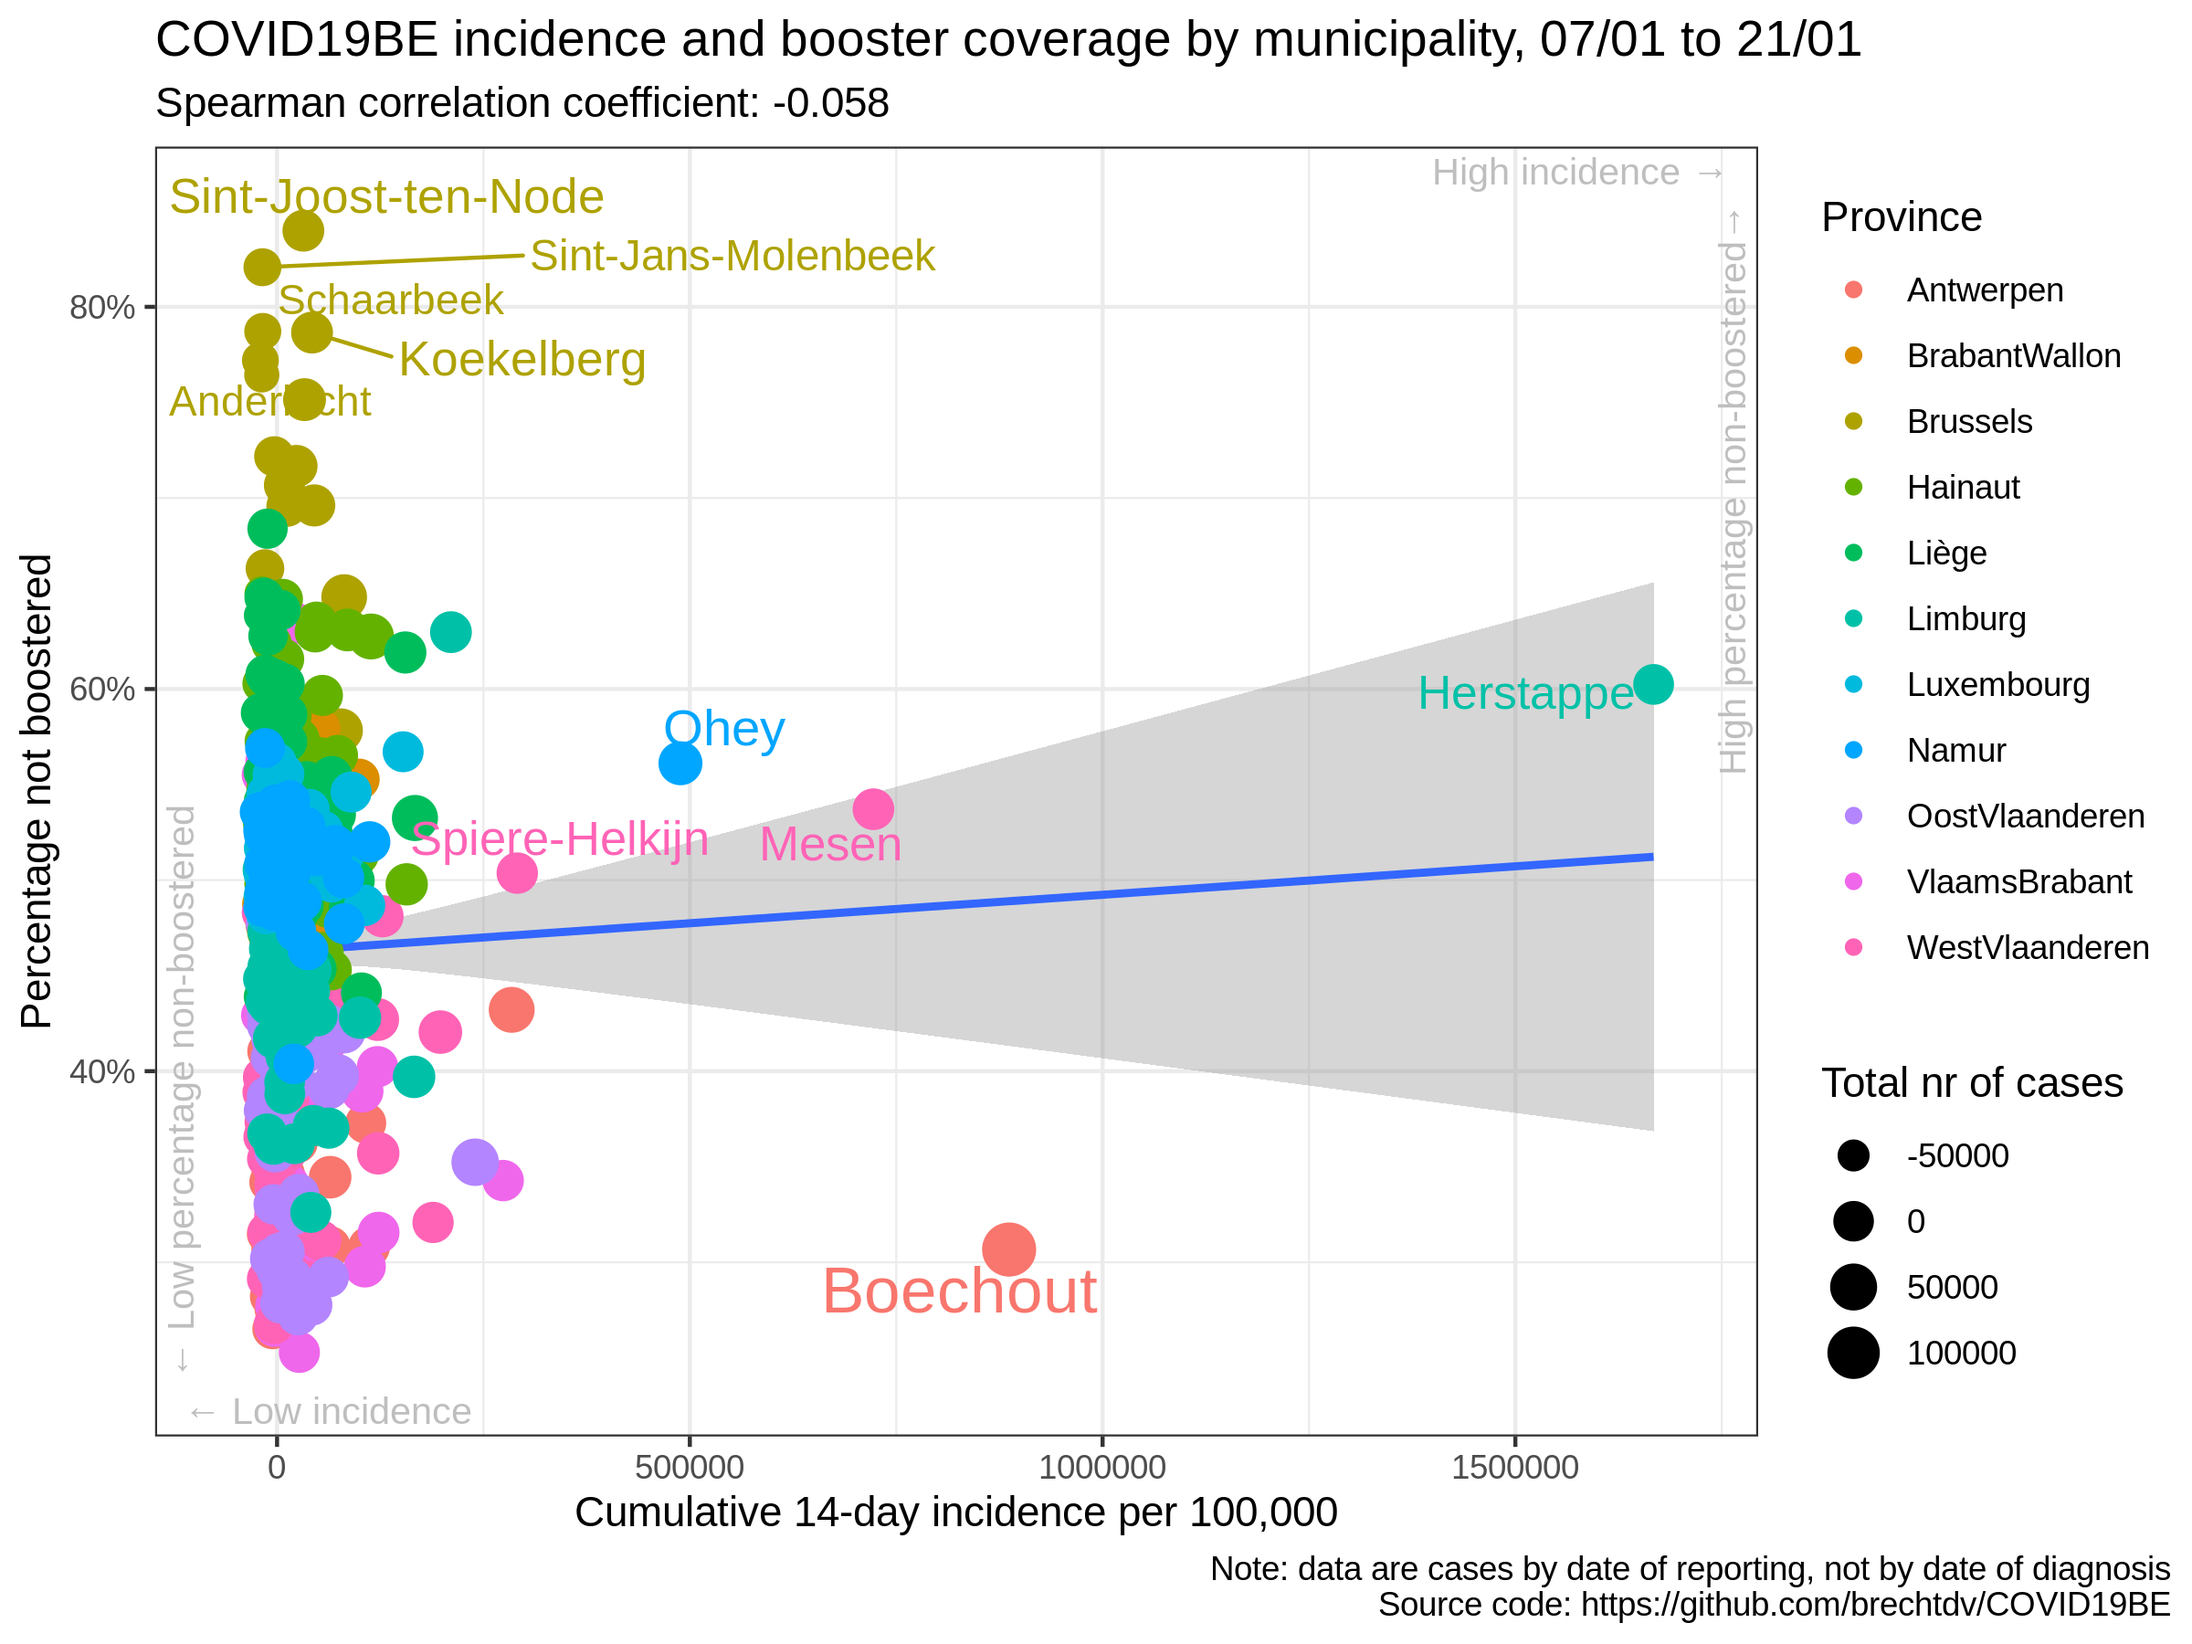
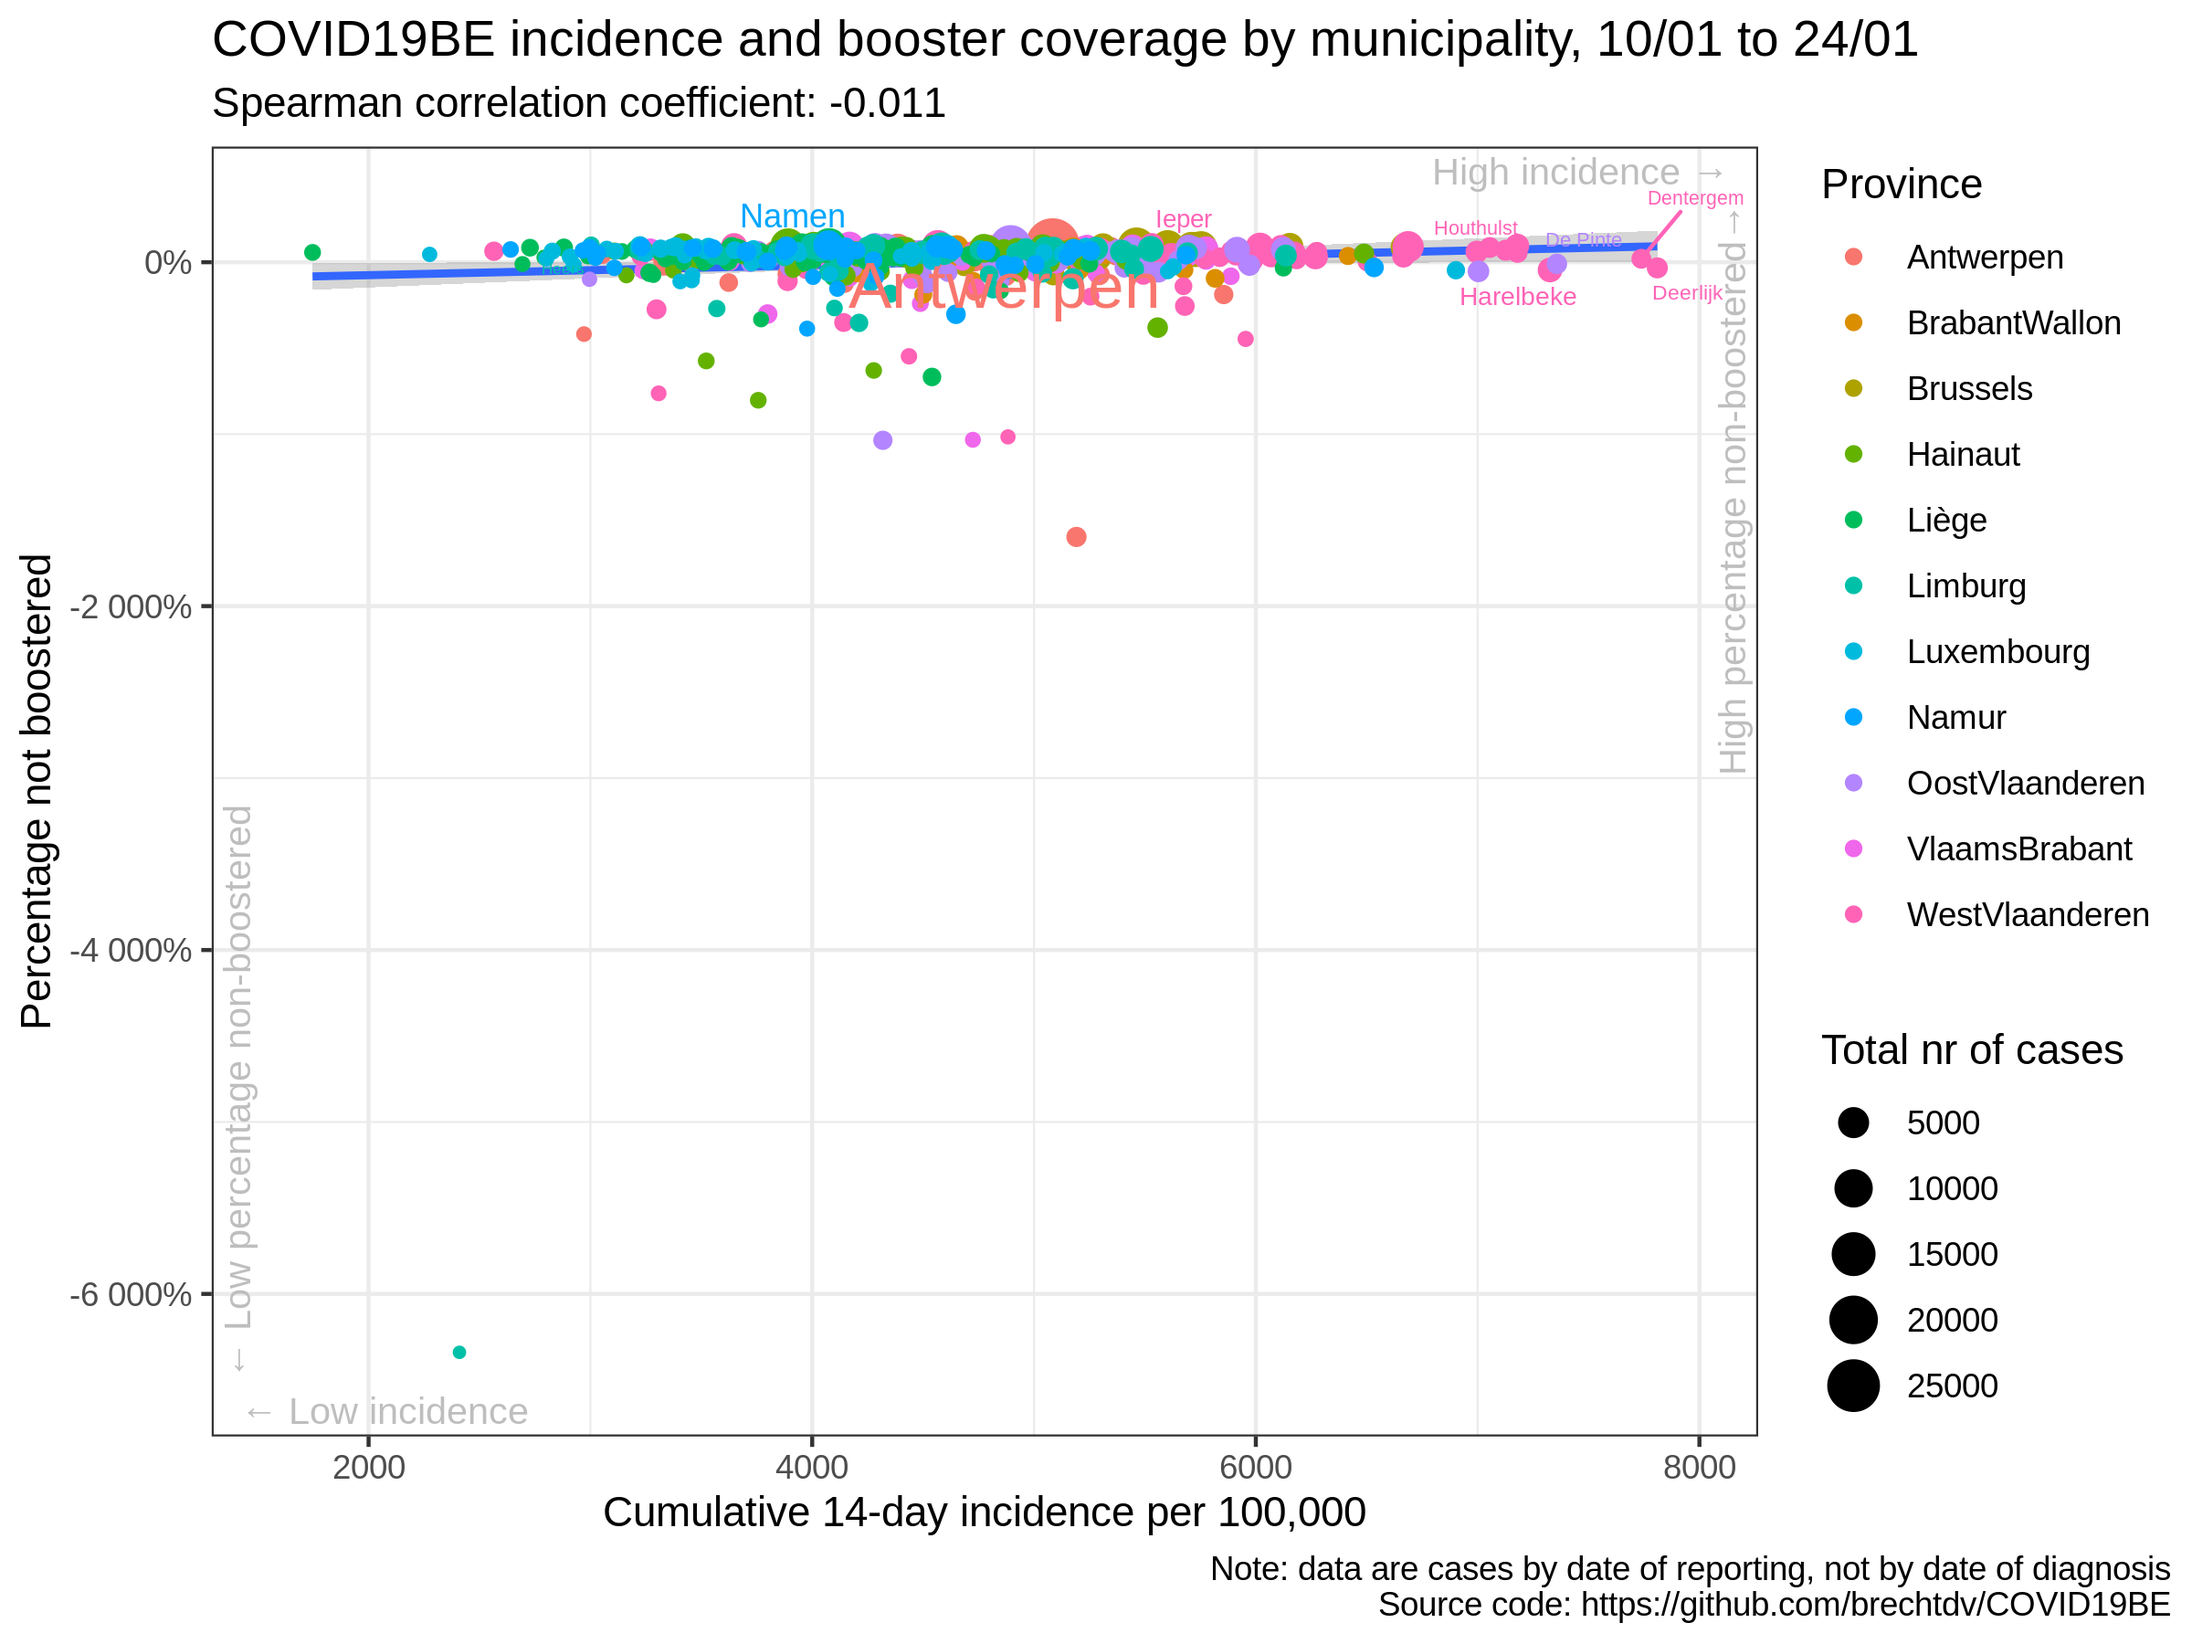
update situation

diff --git a/vaccination/README.md b/vaccination/README.md
@@ -17,35 +17,35 @@
 
 |                | estimate.rho | p.value |
 | :------------- | -----------: | ------: |
-| Antwerpen      |      \-0.179 |   0.141 |
-| BrabantWallon  |        0.249 |   0.209 |
-| Brussels       |      \-0.354 |   0.137 |
-| Hainaut        |      \-0.028 |   0.817 |
-| Liège          |      \-0.155 |   0.159 |
-| Limburg        |      \-0.225 |   0.152 |
-| Luxembourg     |        0.111 |   0.471 |
-| Namur          |        0.123 |   0.461 |
-| OostVlaanderen |      \-0.271 |   0.037 |
-| VlaamsBrabant  |      \-0.225 |   0.071 |
-| WestVlaanderen |        0.205 |   0.104 |
-| Belgium        |      \-0.055 |   0.183 |
+| Antwerpen      |        0.070 |   0.568 |
+| BrabantWallon  |      \-0.310 |   0.116 |
+| Brussels       |        0.656 |   0.003 |
+| Hainaut        |        0.056 |   0.648 |
+| Liège          |      \-0.057 |   0.604 |
+| Limburg        |        0.108 |   0.495 |
+| Luxembourg     |      \-0.130 |   0.399 |
+| Namur          |      \-0.271 |   0.105 |
+| OostVlaanderen |        0.051 |   0.699 |
+| VlaamsBrabant  |        0.093 |   0.459 |
+| WestVlaanderen |        0.142 |   0.263 |
+| Belgium        |      \-0.008 |   0.841 |
 
 ### Correlation cumulative incidence vs booster rate
 
 |                | estimate.rho | p.value |
 | :------------- | -----------: | ------: |
-| Antwerpen      |      \-0.084 |   0.491 |
-| BrabantWallon  |        0.324 |   0.099 |
-| Brussels       |      \-0.411 |   0.082 |
-| Hainaut        |      \-0.014 |   0.906 |
-| Liège          |      \-0.215 |   0.050 |
-| Limburg        |      \-0.248 |   0.113 |
-| Luxembourg     |        0.006 |   0.971 |
-| Namur          |      \-0.225 |   0.174 |
-| OostVlaanderen |      \-0.228 |   0.080 |
-| VlaamsBrabant  |      \-0.285 |   0.022 |
-| WestVlaanderen |        0.153 |   0.228 |
-| Belgium        |      \-0.058 |   0.163 |
+| Antwerpen      |        0.062 |   0.615 |
+| BrabantWallon  |      \-0.304 |   0.123 |
+| Brussels       |        0.660 |   0.003 |
+| Hainaut        |        0.075 |   0.542 |
+| Liège          |      \-0.071 |   0.518 |
+| Limburg        |        0.103 |   0.514 |
+| Luxembourg     |      \-0.140 |   0.365 |
+| Namur          |      \-0.231 |   0.169 |
+| OostVlaanderen |        0.087 |   0.506 |
+| VlaamsBrabant  |        0.081 |   0.520 |
+| WestVlaanderen |        0.156 |   0.217 |
+| Belgium        |      \-0.011 |   0.797 |
 
 ### Data source
 
